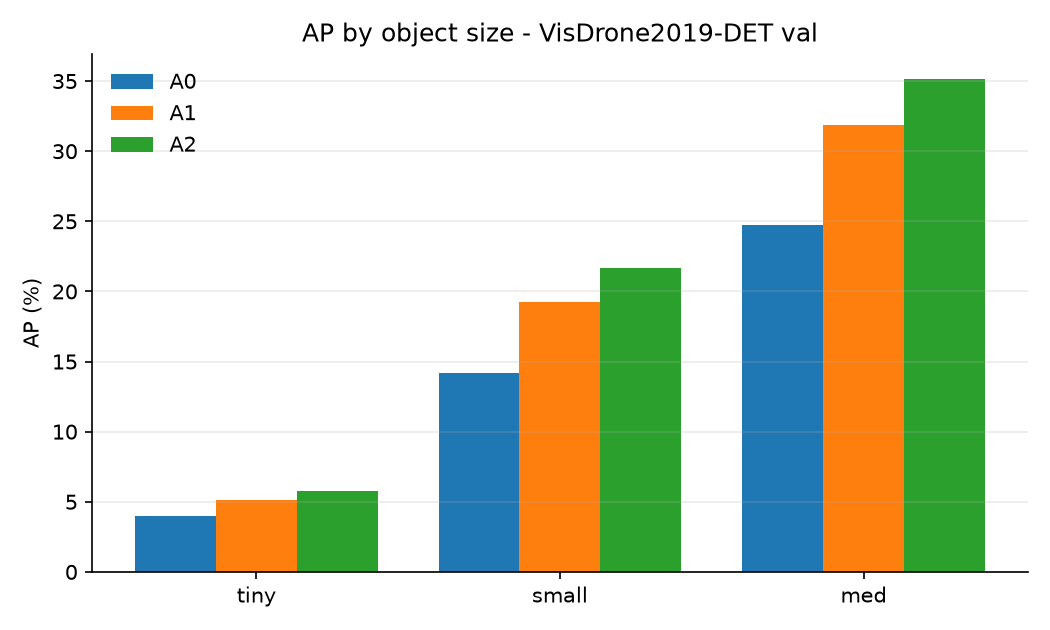
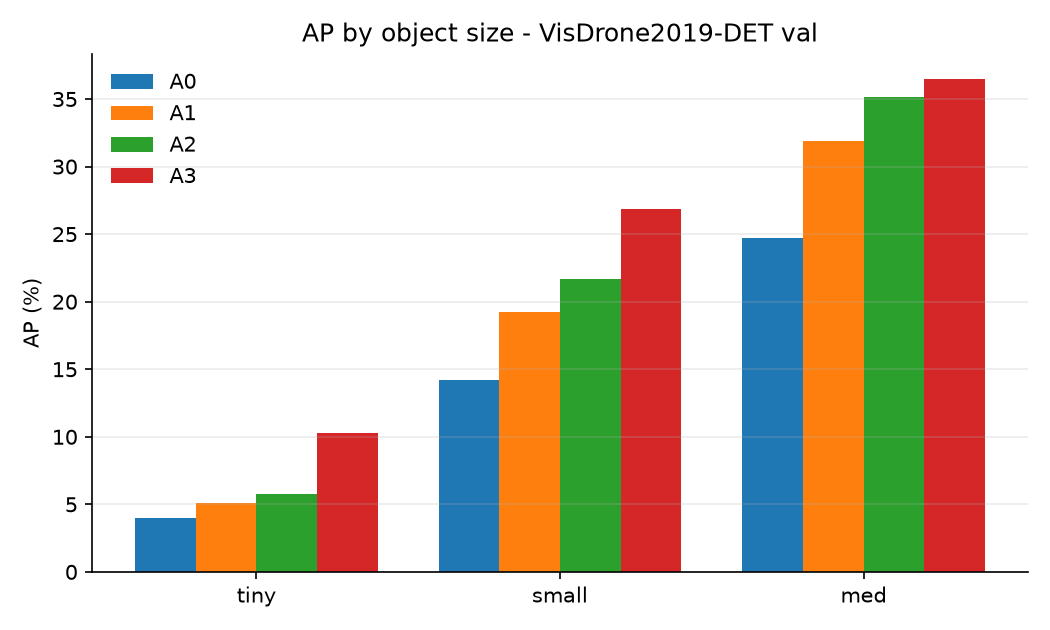
detector: stride-4 (P2) row - AP 14.44 -> 18.46, AP_tiny 5.77 -> 10.28
Also fixes evaluate.py to build the architecture from the checkpoint's own config
rather than --config; otherwise a P2 or ResNet-50 checkpoint fails to load and the
row silently vanishes from the table.

diff --git a/src/eval/evaluate.py b/src/eval/evaluate.py
@@ -75,7 +75,16 @@ def main():
         build_gt(ds, gt_path)
 
     ck = torch.load(a.ckpt, map_location="cpu", weights_only=False)
-    model = build_model(cfg, device)
+    # Build the architecture from the CHECKPOINT's own config, not from --config: a
+    # checkpoint may be a different backbone (the teacher) or carry the stride-4 level,
+    # and silently constructing the wrong architecture here is how a row goes missing.
+    build_cfg = C.Cfg(dict(cfg))
+    saved = ck.get("cfg") or {}
+    if saved.get("model"):
+        build_cfg["model"] = dict(saved["model"])
+        if dict(saved["model"]) != dict(cfg.model):
+            print(f"using the checkpoint's model config: {dict(saved['model'])}")
+    model = build_model(build_cfg, device)
     sd = ck.get("ema") if a.weights == "ema" and ck.get("ema") else ck["model"]
     missing = model.load_state_dict(sd, strict=False)
     if missing.missing_keys:

diff --git a/outputs/results/ablation.md b/outputs/results/ablation.md
@@ -3,5 +3,6 @@
 | A0 | centre-prior assigner, BCE + GIoU, flip only, no EMA | 12.8 | 30 | 50.1 | 3.5 | 9.8 | 20.3 | 8.7 | 4.0 | 14.2 | 24.7 | 20.8 |
 | A1 | + mosaic, HSV, scale jitter, EMA | 12.8 | 30 | 42.3 | 3.5 | 13.1 | 25.7 | 11.9 | 5.1 | 19.2 | 31.9 | 26.8 |
 | A2 | + TAL assigner, CIoU | 12.8 | 30 | 50.5 | 3.3 | 14.4 | 27.3 | 13.8 | 5.8 | 21.7 | 35.2 | 26.3 |
+| A3 | + stride-4 (P2) level | 13.2 | 30 | 92.8 | 5.2 | 18.5 | 34.3 | 17.4 | 10.3 | 26.9 | 36.5 | 32.9 |
 
 AP columns are COCO mAP x100. Size bins are ours, not COCO's: tiny < 16^2 px, small 16^2-32^2, med 32^2-96^2 - COCO's `small < 32^2` puts almost all of VisDrone in one bucket and hides the effect.
